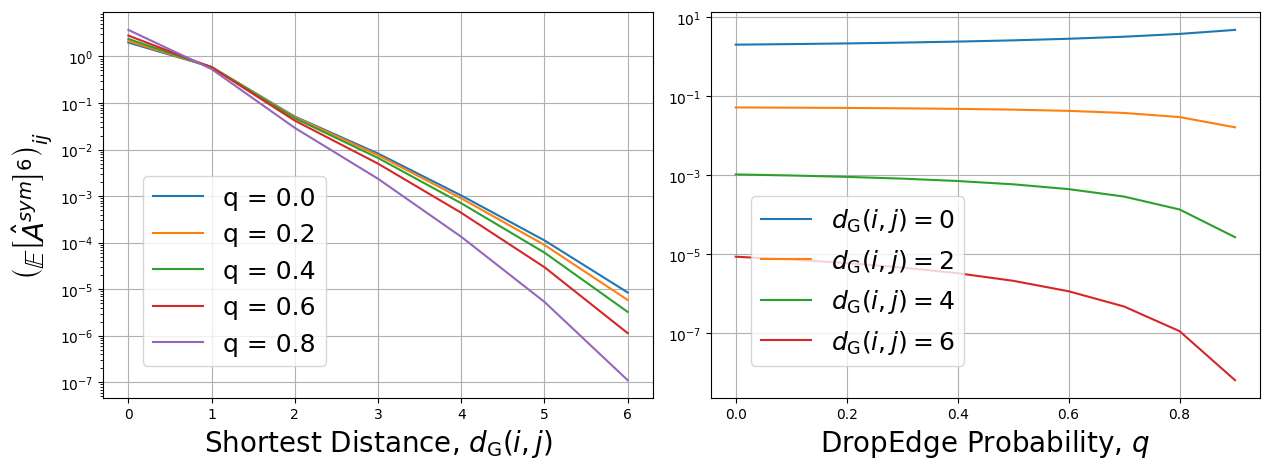
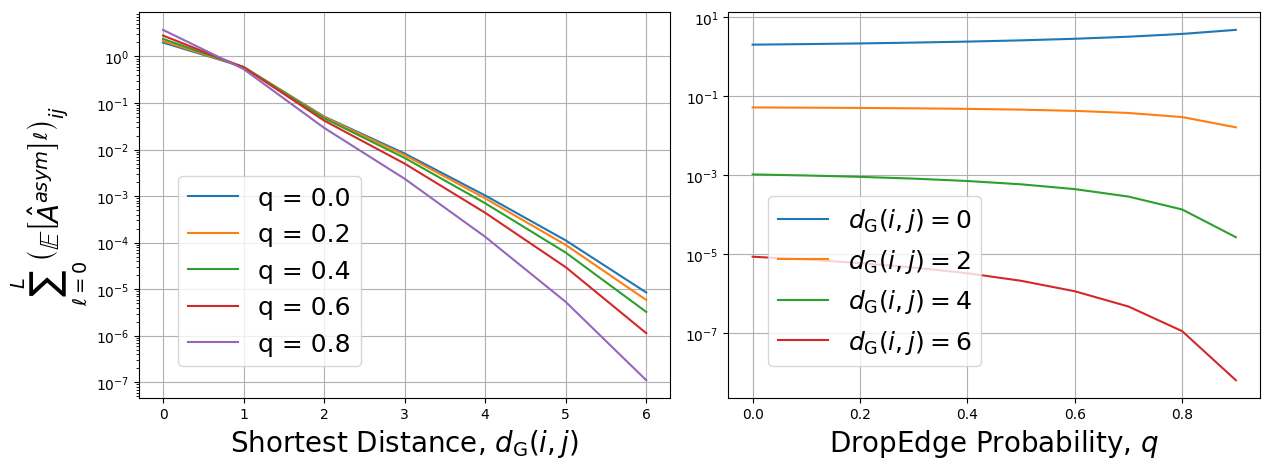
fixed ylabel

diff --git a/plots/linear_gcn/black_extension.py b/plots/linear_gcn/black_extension.py
@@ -51,7 +51,7 @@ for i, p in enumerate(ps):
 for p, datap in list(zip(ps, data))[::2]:
     axp.plot(ls, datap, label=f'q = {p:.1f}')
 axp.set_xlabel(rf'Shortest Distance, $d_{{\mathsf{{G}}}}(i,j)$', fontsize=20)
-axp.set_ylabel(rf'$\left(\mathbb{{E}}\left[\hat{{A}}^{{sym}}\right]^{{{L}}}\right)_{{ij}}$', fontsize=20)
+axp.set_ylabel(rf'$\sum_{{\ell=0}}^{{L}}\left(\mathbb{{E}}\left[\hat{{A}}^{{asym}}\right]^{{\ell}}\right)_{{ij}}$', fontsize=20)
 axp.set_yscale('log')
 axp.grid()
 axp.legend(loc='lower left', bbox_to_anchor=(0.05, 0.05), fontsize=18)
